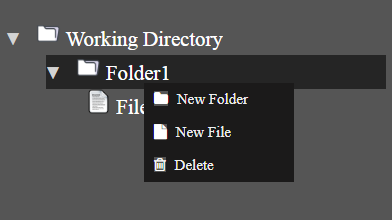
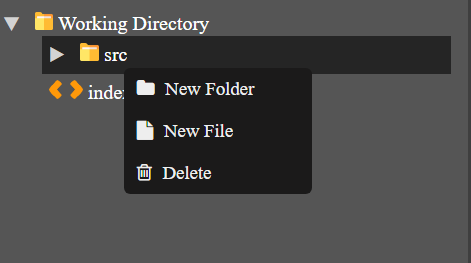
context menu and read.me images correcting

diff --git a/Controllers/ExplorerController.js b/Controllers/ExplorerController.js
@@ -59,8 +59,10 @@ class ExplorerController {
                 document.getElementById("add_file_id").style.display = "block";
                 document.getElementById("delete_id").style.display = "block"
             }
-
-            var contextElement = document.getElementById("context-menu");
+						
+            const contextElement = document.getElementById("context-menu");
+						contextElement.style.top = event.pageY + "px";
+            contextElement.style.left = event.pageX + "px";
             contextElement.classList.add("active");
             
             $(".context-menu").show();
